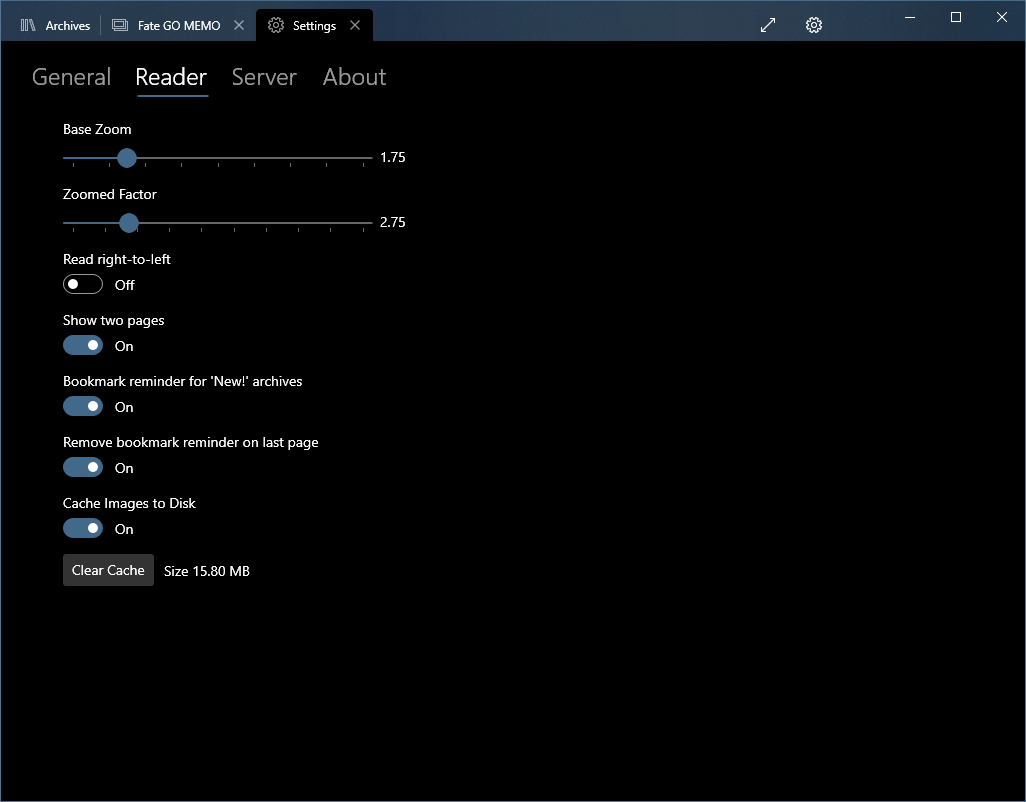
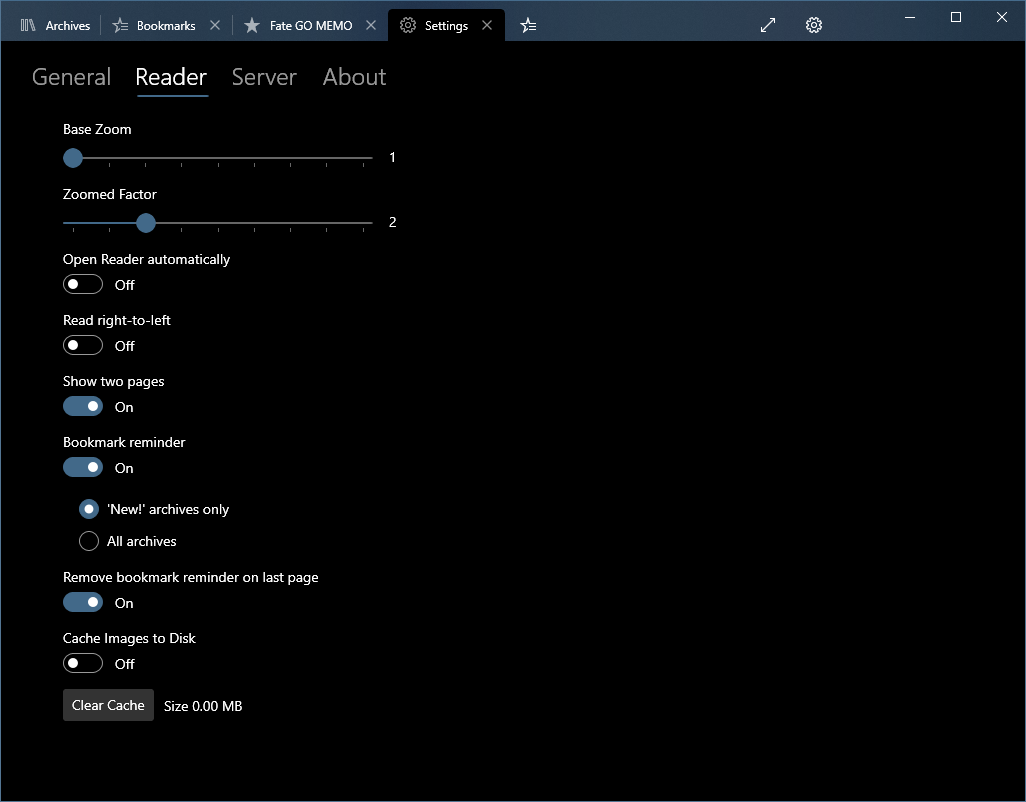
v1.2.1.0

diff --git a/README.md b/README.md
@@ -5,13 +5,12 @@
 
 ## Features
 - Archives list.
-- Search by name and/or tag.
+- Search, the same one used in the webview.
 - Show new archives only.
 - Download archives.
-- Archive overview (with tags) & reader.
+- Archive overview (with tags) and reader.
 - Configurable reader's base zoom and zoomed factor.
-- Right-to-Left mode.
-- Two pages mode.
+- Right-to-Left and Two pages modes.
 - Bookmarks.
 - Optional image caching.
 - Multiple servers.
@@ -47,6 +46,7 @@ Unzip and run the `LRReader.UWP_<version>_x86_x64_arm_arm64.appxbundle` file, th
 
 ![Main View](.github/screenshots/01.png)<br>
 ![Search](.github/screenshots/02.png)<br>
+![Bookmarks](.github/screenshots/01_1.png)<br>
 ![Archive View](.github/screenshots/03.png)<br>
 ![Reader](.github/screenshots/04.png)<br>
 ![Reader two pages](.github/screenshots/04_1.png)<br>
